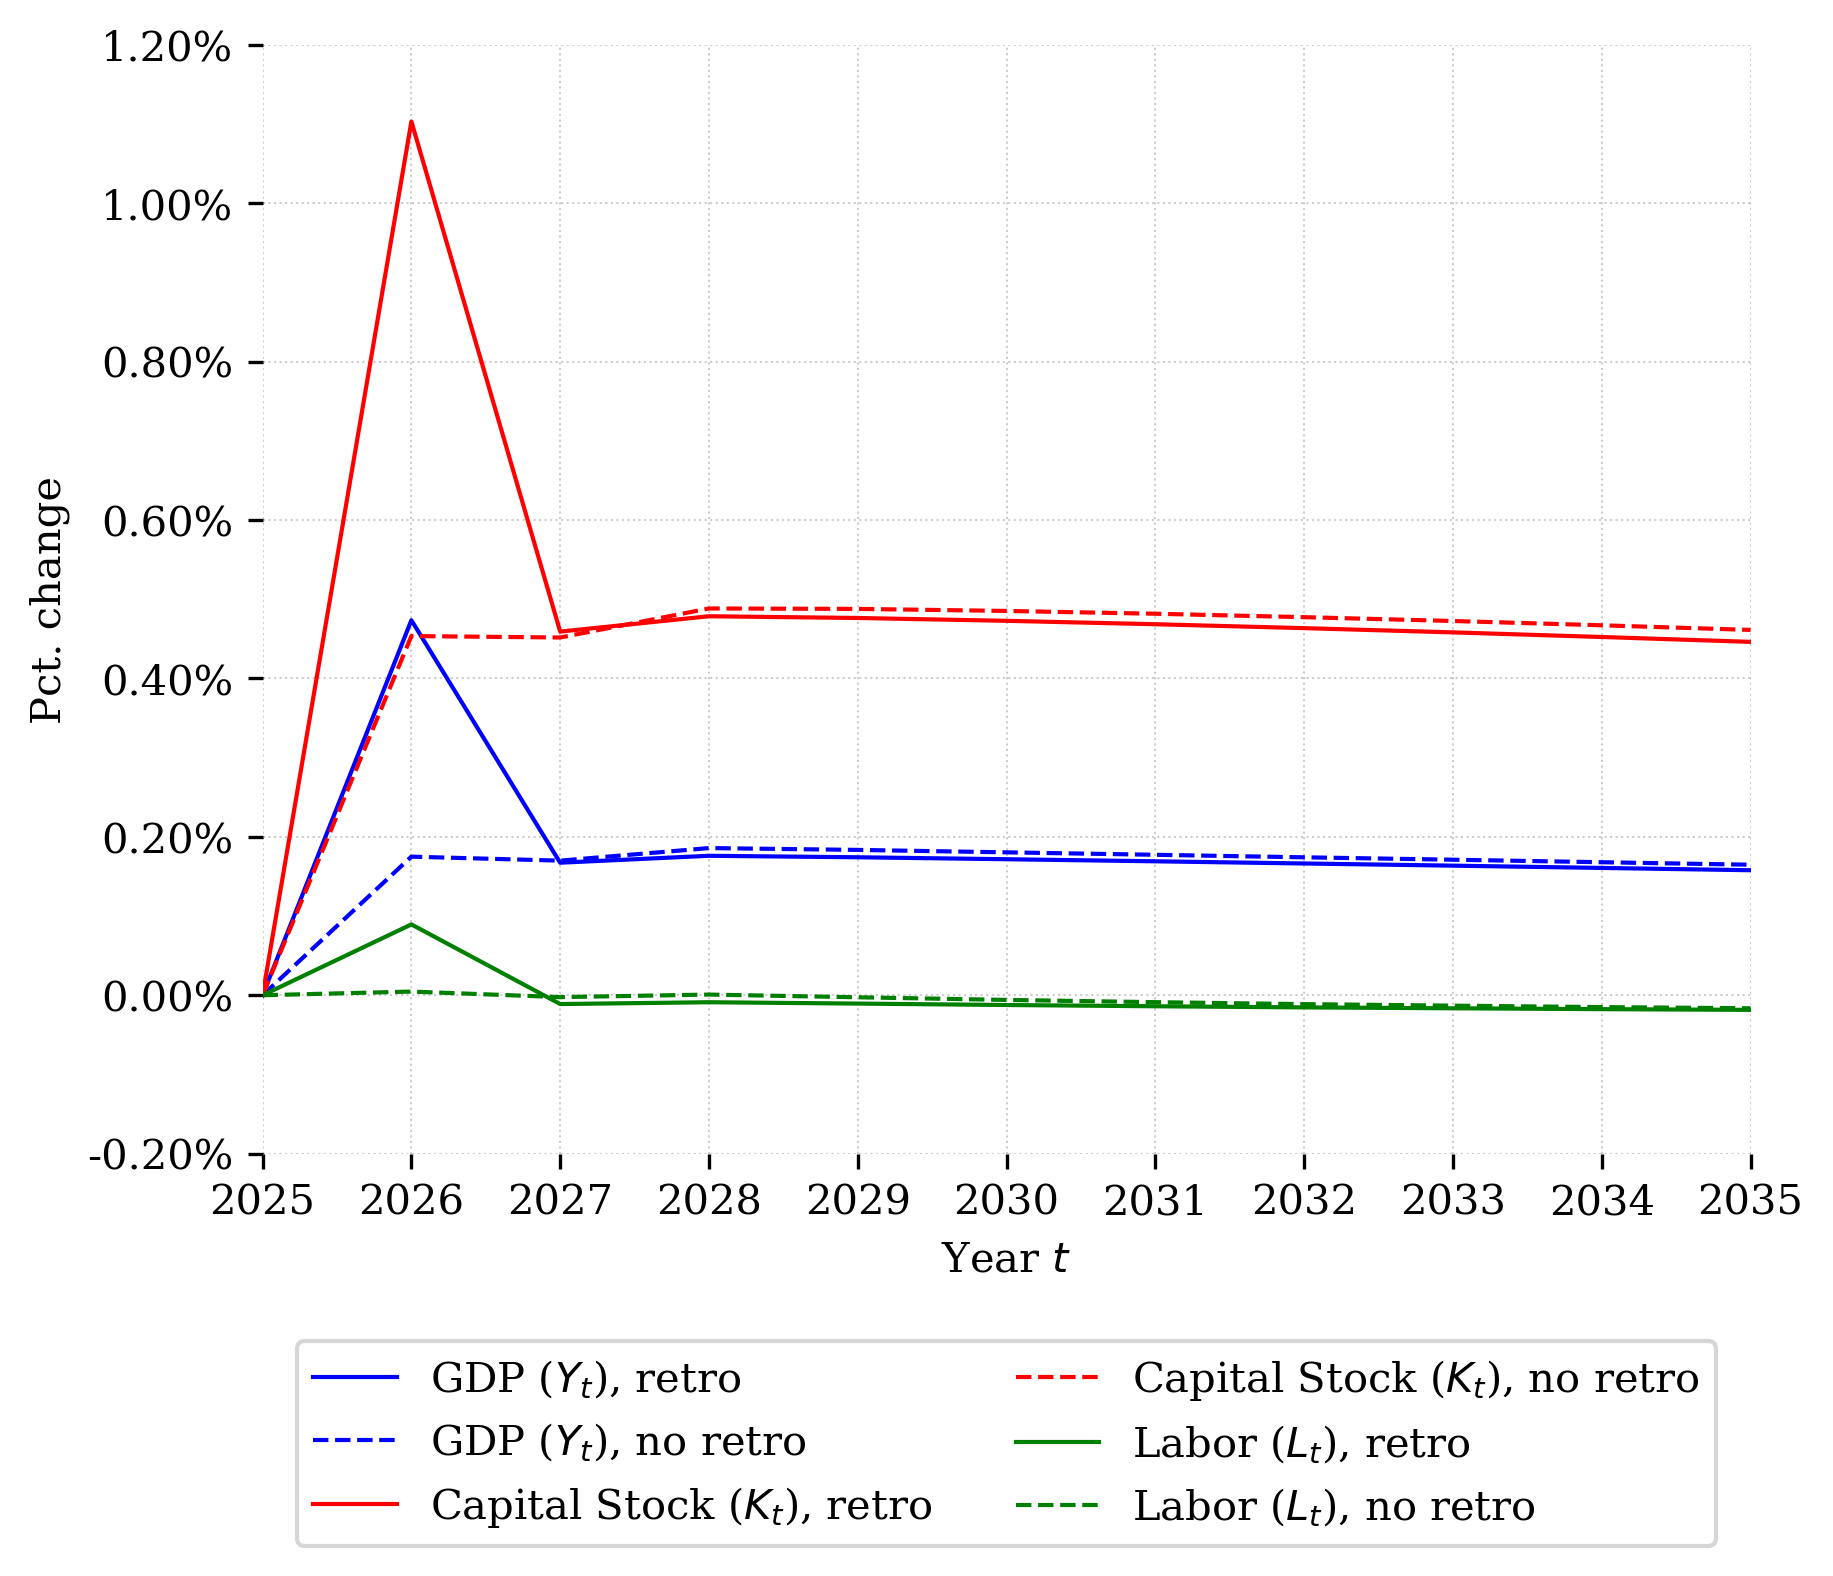
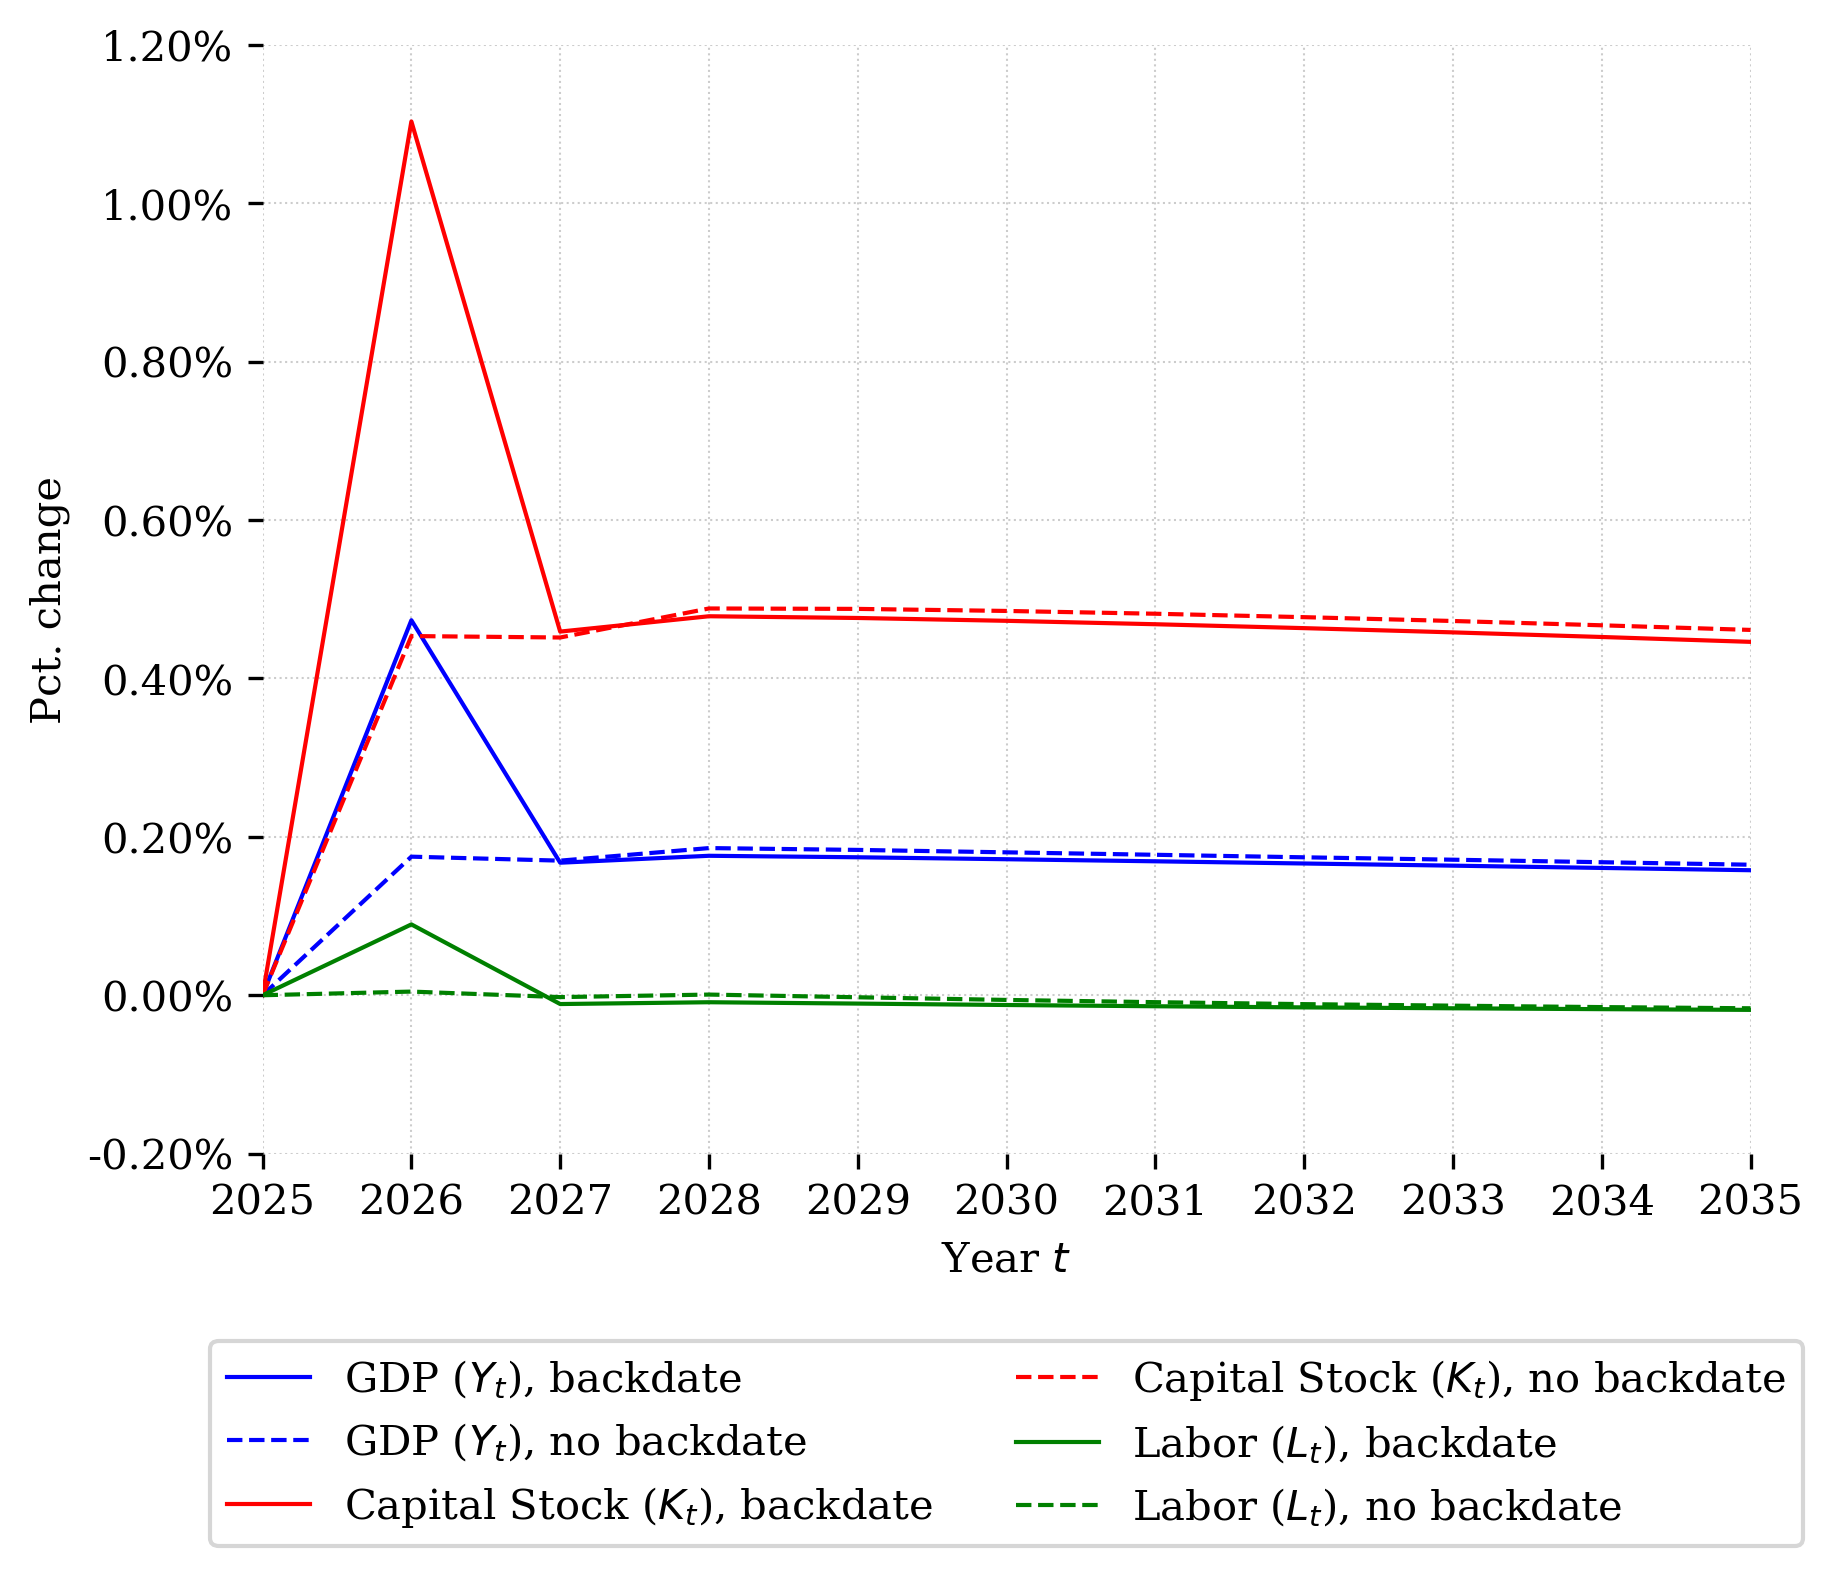
Updated files

diff --git a/code/rdcredit_ogusa.py b/code/rdcredit_ogusa.py
@@ -62,169 +62,169 @@ def main():
     Run baseline policy
     ---------------------------------------------------------------------------
     """
-    # Set up baseline parameterization
-    p = Specifications(
-        baseline=True,
-        num_workers=num_workers,
-        baseline_dir=base_dir,
-        output_base=base_dir,
-    )
-    # Update parameters for baseline from default json file
-    with importlib.resources.open_text(
-        "ogusa", "ogusa_default_parameters.json"
-    ) as file:
-        defaults = json.load(file)
-    p.update_specifications(defaults)
-    p.tax_func_type = "HSV"
-    p.age_specific = True
+    # # Set up baseline parameterization
+    # p = Specifications(
+    #     baseline=True,
+    #     num_workers=num_workers,
+    #     baseline_dir=base_dir,
+    #     output_base=base_dir,
+    # )
+    # # Update parameters for baseline from default json file
+    # with importlib.resources.open_text(
+    #     "ogusa", "ogusa_default_parameters.json"
+    # ) as file:
+    #     defaults = json.load(file)
+    # p.update_specifications(defaults)
+    # p.tax_func_type = "HSV"
+    # p.age_specific = True
 
-    # c = Calibration(p, estimate_tax_functions=True, iit_baseline=iit_baseline, data='tmd', client=client)
-    # c = Calibration(p, estimate_tax_functions=True, data='tmd', client=client)
-    tmd_dir = "/Users/richardevans/Docs/Economics/OSE/microsim/tax-microdata-benchmarking/tmd/storage/output"
-    c = Calibration(
-        p,
-        estimate_tax_functions=True,
-        client=client,
-        data=Path(os.path.join(tmd_dir, "tmd_jason2.csv.gz")),
-        weights=Path(os.path.join(tmd_dir, "tmd_weights_jason2.csv.gz")),
-        gfactors=Path(os.path.join(tmd_dir, "tmd_growfactors_jason2.csv")),
-        records_start_year=2021,
-    )
-    client.close()
-    d = c.get_dict()
-    # # additional parameters to change
-    updated_params = {
-        "start_year": 2026,
-        "RC_TPI": 100*1e-4,
-        "inv_tax_credit": [[0.015]],
-        "etr_params": d["etr_params"],
-        "mtrx_params": d["mtrx_params"],
-        "mtry_params": d["mtry_params"],
-        "mean_income_data": d["mean_income_data"],
-        "frac_tax_payroll": d["frac_tax_payroll"],
-    }
-    p.update_specifications(updated_params)
+    # # c = Calibration(p, estimate_tax_functions=True, iit_baseline=iit_baseline, data='tmd', client=client)
+    # # c = Calibration(p, estimate_tax_functions=True, data='tmd', client=client)
+    # tmd_dir = "/Users/richardevans/Docs/Economics/OSE/microsim/tax-microdata-benchmarking/tmd/storage/output"
+    # c = Calibration(
+    #     p,
+    #     estimate_tax_functions=True,
+    #     client=client,
+    #     data=Path(os.path.join(tmd_dir, "tmd_jason2.csv.gz")),
+    #     weights=Path(os.path.join(tmd_dir, "tmd_weights_jason2.csv.gz")),
+    #     gfactors=Path(os.path.join(tmd_dir, "tmd_growfactors_jason2.csv")),
+    #     records_start_year=2021,
+    # )
+    # client.close()
+    # d = c.get_dict()
+    # # # additional parameters to change
+    # updated_params = {
+    #     "start_year": 2026,
+    #     "RC_TPI": 100*1e-4,
+    #     "inv_tax_credit": [[0.015]],
+    #     "etr_params": d["etr_params"],
+    #     "mtrx_params": d["mtrx_params"],
+    #     "mtry_params": d["mtry_params"],
+    #     "mean_income_data": d["mean_income_data"],
+    #     "frac_tax_payroll": d["frac_tax_payroll"],
+    # }
+    # p.update_specifications(updated_params)
 
-    # Run model
-    start_time = time.time()
-    client = Client(n_workers=num_workers, threads_per_worker=1)
-    runner(p, time_path=True, client=client)
-    print("run time = ", time.time() - start_time)
-    client.close()
+    # # Run model
+    # start_time = time.time()
+    # client = Client(n_workers=num_workers, threads_per_worker=1)
+    # runner(p, time_path=True, client=client)
+    # print("run time = ", time.time() - start_time)
+    # client.close()
 
     """
     ---------------------------------------------------------------------------
     Run reform policy with retroactivity
     ---------------------------------------------------------------------------
     """
-    client = Client(n_workers=num_workers, threads_per_worker=1)
-    # Set up baseline parameterization
-    p2 = Specifications(
-        baseline=False,
-        num_workers=num_workers,
-        baseline_dir=base_dir,
-        output_base=reform_retro_dir,
-    )
-    # Update parameters for baseline from default json file
-    with importlib.resources.open_text(
-        "ogusa", "ogusa_default_parameters.json"
-    ) as file:
-        defaults = json.load(file)
-    p2.update_specifications(defaults)
-    p2.tax_func_type = "HSV"
-    p2.age_specific = True
+    # client = Client(n_workers=num_workers, threads_per_worker=1)
+    # # Set up baseline parameterization
+    # p2 = Specifications(
+    #     baseline=False,
+    #     num_workers=num_workers,
+    #     baseline_dir=base_dir,
+    #     output_base=reform_retro_dir,
+    # )
+    # # Update parameters for baseline from default json file
+    # with importlib.resources.open_text(
+    #     "ogusa", "ogusa_default_parameters.json"
+    # ) as file:
+    #     defaults = json.load(file)
+    # p2.update_specifications(defaults)
+    # p2.tax_func_type = "HSV"
+    # p2.age_specific = True
 
-    # c = Calibration(p, estimate_tax_functions=True, iit_baseline=iit_baseline, data='tmd', client=client)
-    # c = Calibration(p, estimate_tax_functions=True, data='tmd', client=client)
-    tmd_dir = "/Users/richardevans/Docs/Economics/OSE/microsim/tax-microdata-benchmarking/tmd/storage/output"
-    c2 = Calibration(
-        p2,
-        estimate_tax_functions=True,
-        client=client,
-        data=Path(os.path.join(tmd_dir, "tmd_jason2.csv.gz")),
-        weights=Path(os.path.join(tmd_dir, "tmd_weights_jason2.csv.gz")),
-        gfactors=Path(os.path.join(tmd_dir, "tmd_growfactors_jason2.csv")),
-        records_start_year=2021,
-    )
-    client.close()
-    d2 = c2.get_dict()
-    # # additional parameters to change
-    updated_params2 = {
-        "start_year": 2026,
-        "RC_TPI": 100*1e-4,
-        "baseline_spending": True,
-        "inv_tax_credit": [[0.03333], [0.02295]],
-        "etr_params": d2["etr_params"],
-        "mtrx_params": d2["mtrx_params"],
-        "mtry_params": d2["mtry_params"],
-        "mean_income_data": d2["mean_income_data"],
-        "frac_tax_payroll": d2["frac_tax_payroll"],
-    }
-    p2.update_specifications(updated_params2)
+    # # c = Calibration(p, estimate_tax_functions=True, iit_baseline=iit_baseline, data='tmd', client=client)
+    # # c = Calibration(p, estimate_tax_functions=True, data='tmd', client=client)
+    # tmd_dir = "/Users/richardevans/Docs/Economics/OSE/microsim/tax-microdata-benchmarking/tmd/storage/output"
+    # c2 = Calibration(
+    #     p2,
+    #     estimate_tax_functions=True,
+    #     client=client,
+    #     data=Path(os.path.join(tmd_dir, "tmd_jason2.csv.gz")),
+    #     weights=Path(os.path.join(tmd_dir, "tmd_weights_jason2.csv.gz")),
+    #     gfactors=Path(os.path.join(tmd_dir, "tmd_growfactors_jason2.csv")),
+    #     records_start_year=2021,
+    # )
+    # client.close()
+    # d2 = c2.get_dict()
+    # # # additional parameters to change
+    # updated_params2 = {
+    #     "start_year": 2026,
+    #     "RC_TPI": 100*1e-4,
+    #     "baseline_spending": True,
+    #     "inv_tax_credit": [[0.03333], [0.02295]],
+    #     "etr_params": d2["etr_params"],
+    #     "mtrx_params": d2["mtrx_params"],
+    #     "mtry_params": d2["mtry_params"],
+    #     "mean_income_data": d2["mean_income_data"],
+    #     "frac_tax_payroll": d2["frac_tax_payroll"],
+    # }
+    # p2.update_specifications(updated_params2)
 
-    # Run model
-    start_time = time.time()
-    client = Client(n_workers=num_workers, threads_per_worker=1)
-    runner(p2, time_path=True, client=client)
-    print("run time = ", time.time() - start_time)
-    client.close()
+    # # Run model
+    # start_time = time.time()
+    # client = Client(n_workers=num_workers, threads_per_worker=1)
+    # runner(p2, time_path=True, client=client)
+    # print("run time = ", time.time() - start_time)
+    # client.close()
 
     """
     ---------------------------------------------------------------------------
     Run reform policy with no retroactivity
     ---------------------------------------------------------------------------
     """
-    client = Client(n_workers=num_workers, threads_per_worker=1)
-    # Set up baseline parameterization
-    p3 = Specifications(
-        baseline=False,
-        num_workers=num_workers,
-        baseline_dir=base_dir,
-        output_base=reform_noretro_dir,
-    )
-    # Update parameters for baseline from default json file
-    with importlib.resources.open_text(
-        "ogusa", "ogusa_default_parameters.json"
-    ) as file:
-        defaults = json.load(file)
-    p3.update_specifications(defaults)
-    p3.tax_func_type = "HSV"
-    p3.age_specific = True
+    # client = Client(n_workers=num_workers, threads_per_worker=1)
+    # # Set up baseline parameterization
+    # p3 = Specifications(
+    #     baseline=False,
+    #     num_workers=num_workers,
+    #     baseline_dir=base_dir,
+    #     output_base=reform_noretro_dir,
+    # )
+    # # Update parameters for baseline from default json file
+    # with importlib.resources.open_text(
+    #     "ogusa", "ogusa_default_parameters.json"
+    # ) as file:
+    #     defaults = json.load(file)
+    # p3.update_specifications(defaults)
+    # p3.tax_func_type = "HSV"
+    # p3.age_specific = True
 
-    # c = Calibration(p, estimate_tax_functions=True, iit_baseline=iit_baseline, data='tmd', client=client)
-    # c = Calibration(p, estimate_tax_functions=True, data='tmd', client=client)
-    tmd_dir = "/Users/richardevans/Docs/Economics/OSE/microsim/tax-microdata-benchmarking/tmd/storage/output"
-    c3 = Calibration(
-        p3,
-        estimate_tax_functions=True,
-        client=client,
-        data=Path(os.path.join(tmd_dir, "tmd_jason2.csv.gz")),
-        weights=Path(os.path.join(tmd_dir, "tmd_weights_jason2.csv.gz")),
-        gfactors=Path(os.path.join(tmd_dir, "tmd_growfactors_jason2.csv")),
-        records_start_year=2021,
-    )
-    client.close()
-    d3 = c3.get_dict()
-    # # additional parameters to change
-    updated_params3 = {
-        "start_year": 2026,
-        "RC_TPI": 100*1e-4,
-        "baseline_spending": True,
-        "inv_tax_credit": [[0.02295]],
-        "etr_params": d3["etr_params"],
-        "mtrx_params": d3["mtrx_params"],
-        "mtry_params": d3["mtry_params"],
-        "mean_income_data": d3["mean_income_data"],
-        "frac_tax_payroll": d3["frac_tax_payroll"],
-    }
-    p3.update_specifications(updated_params3)
+    # # c = Calibration(p, estimate_tax_functions=True, iit_baseline=iit_baseline, data='tmd', client=client)
+    # # c = Calibration(p, estimate_tax_functions=True, data='tmd', client=client)
+    # tmd_dir = "/Users/richardevans/Docs/Economics/OSE/microsim/tax-microdata-benchmarking/tmd/storage/output"
+    # c3 = Calibration(
+    #     p3,
+    #     estimate_tax_functions=True,
+    #     client=client,
+    #     data=Path(os.path.join(tmd_dir, "tmd_jason2.csv.gz")),
+    #     weights=Path(os.path.join(tmd_dir, "tmd_weights_jason2.csv.gz")),
+    #     gfactors=Path(os.path.join(tmd_dir, "tmd_growfactors_jason2.csv")),
+    #     records_start_year=2021,
+    # )
+    # client.close()
+    # d3 = c3.get_dict()
+    # # # additional parameters to change
+    # updated_params3 = {
+    #     "start_year": 2026,
+    #     "RC_TPI": 100*1e-4,
+    #     "baseline_spending": True,
+    #     "inv_tax_credit": [[0.02295]],
+    #     "etr_params": d3["etr_params"],
+    #     "mtrx_params": d3["mtrx_params"],
+    #     "mtry_params": d3["mtry_params"],
+    #     "mean_income_data": d3["mean_income_data"],
+    #     "frac_tax_payroll": d3["frac_tax_payroll"],
+    # }
+    # p3.update_specifications(updated_params3)
 
-    # Run model
-    start_time = time.time()
-    client = Client(n_workers=num_workers, threads_per_worker=1)
-    runner(p3, time_path=True, client=client)
-    print("run time = ", time.time() - start_time)
-    client.close()
+    # # Run model
+    # start_time = time.time()
+    # client = Client(n_workers=num_workers, threads_per_worker=1)
+    # runner(p3, time_path=True, client=client)
+    # print("run time = ", time.time() - start_time)
+    # client.close()
 
     """
     ---------------------------------------------------------------------------
@@ -338,7 +338,7 @@ def main():
             ),
             color=color_list1[i],
             linestyle="-",
-            label=VAR_LABELS[v] + ", retro"
+            label=VAR_LABELS[v] + ", backdate"
         )
         plt.plot(
             year_vec,
@@ -352,7 +352,7 @@ def main():
             ),
             color=color_list1[i],
             linestyle="--",
-            label=VAR_LABELS[v] + ", no retro"
+            label=VAR_LABELS[v] + ", no backdate"
         )
     plt.xlabel(r"Year $t$")
     plt.ylabel( r"Pct. change")
@@ -403,7 +403,7 @@ def main():
             ),
             color=color_list2[i],
             linestyle="-",
-            label=VAR_LABELS[v] + ", retro"
+            label=VAR_LABELS[v] + ", backdate"
         )
         plt.plot(
             year_vec,
@@ -417,7 +417,7 @@ def main():
             ),
             color=color_list2[i],
             linestyle="--",
-            label=VAR_LABELS[v] + ", no retro"
+            label=VAR_LABELS[v] + ", no backdate"
         )
     plt.xlabel(r"Year $t$")
     plt.ylabel( r"Pct. change")
@@ -470,13 +470,13 @@ def main():
         year_vec,
         plot_var_reform_retro[start_index: start_index + num_years_to_plot],
         color="red", linestyle="-",
-        label="Reform " + ToGDP_LABELS["D"] + ", retro"
+        label="Reform " + ToGDP_LABELS["D"] + ", backdate"
     )
     plt.plot(
         year_vec,
         plot_var_reform_noretro[start_index: start_index + num_years_to_plot],
         color="red", linestyle="--",
-        label="Reform " + ToGDP_LABELS["D"] + ", no retro"
+        label="Reform " + ToGDP_LABELS["D"] + ", no backdate"
     )
     plt.xlabel(r"Year $t$")
     plt.ylabel( r"Percent of GDP")
